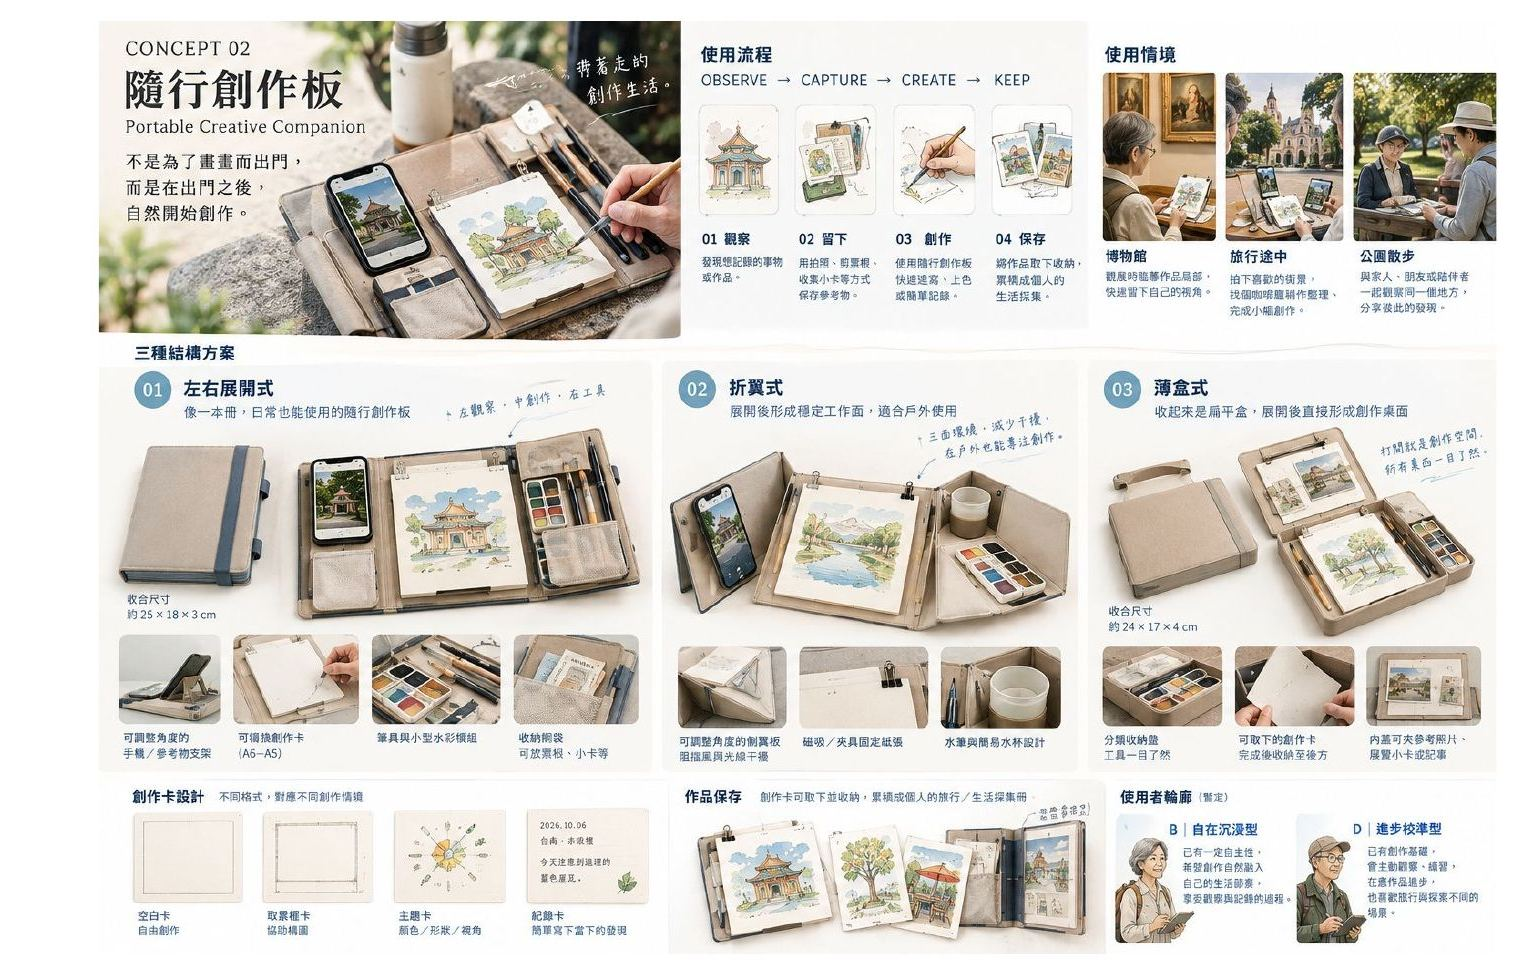
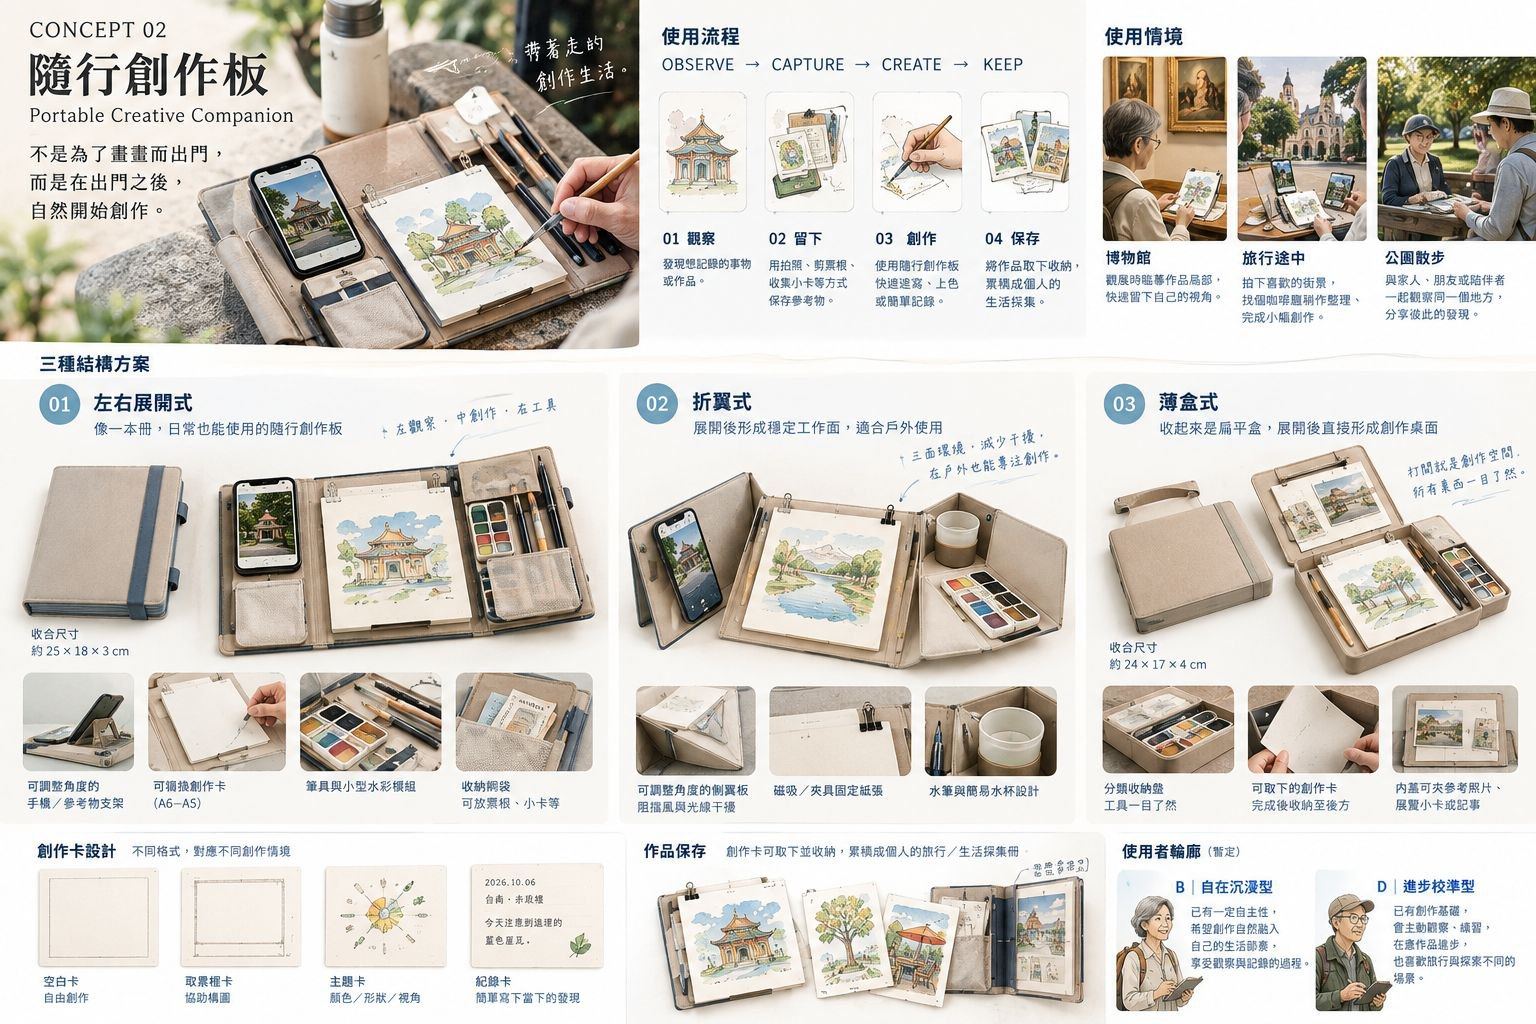
Add files via upload

diff --git a/index.html b/index.html
@@ -18,7 +18,7 @@
 *{box-sizing:border-box}
 html{scroll-behavior:smooth}
 body{margin:0;background:var(--paper);color:var(--ink);font-family:var(--sans);font-size:17px;line-height:1.8;-webkit-font-smoothing:antialiased}
-img{max-width:100%;display:block}
+img{max-width:100%;height:auto;display:block}
 a{color:var(--hydrangea);text-underline-offset:3px}
 a:focus-visible,button:focus-visible{outline:3px solid var(--hydrangea);outline-offset:3px;border-radius:2px}
 .wrap{max-width:1080px;margin:0 auto;padding:0 24px}
@@ -117,6 +117,7 @@ nav a:hover{color:var(--ink)}
 .concept .for{font-size:15px;color:var(--leaf);font-weight:700}
 .concept .tagline{font-family:var(--serif);font-size:22px;margin:8px 0 0}
 .figure{background:var(--sheet);border:1px solid var(--line);padding:12px;margin:0 0 20px}
+.figure a{display:block;cursor:zoom-in}
 .figure figcaption{font-size:14px;color:var(--soft);padding-top:10px}
 .two{display:grid;grid-template-columns:1fr 1fr;gap:32px}
 .two h3{font-size:18px;margin-bottom:8px}
@@ -352,12 +353,12 @@ footer{padding:56px 0 calc(56px + env(safe-area-inset-bottom,0px));border-top:1p
       </header>
       <p>課程提供了固定時段的藝術活動，但創作不一定只能發生在上課時。生活創作日曆借用撕日曆這個本來就存在的日常習慣，每天給一個小小的題目，讓藝術自然融入退休生活。</p>
       <figure class="figure">
-        <img src="calendar-anatomy.jpg" alt="日曆單頁示意：5 月 14 日初夏，今天的題目是畫下一種讓你想到初夏的植物，畫面中有繡球花水彩，並標示日期節氣、今日題目、生活文化資訊、最低限度提示、有限創作區與 LINE 提示 QR code 六個區塊" loading="lazy" width="945" height="384">
-        <figcaption>一張日曆，完整一天：日期與節氣、今日題目、生活資訊、最低限度提示、有限的創作區，需要時才掃 QR code 進入 LINE。</figcaption>
+        <a href="calendar-anatomy.jpg" target="_blank" rel="noopener" title="開啟大圖"><img src="calendar-anatomy.jpg" alt="生活創作日曆產品圖板：從日曆本撕下當天頁面、在日常中完成小畫，再收進生活收藏冊；下方為單頁解析，5 月 14 日初夏的題目是畫下一種讓你想到初夏的植物，標示日期節氣、今日題目、生活文化資訊、最低限度提示、有限創作區與 LINE 提示 QR code" loading="lazy" width="1672" height="941"></a>
+        <figcaption>日曆越來越薄，生活紀錄越來越厚：撕下今天、完成小畫、收進收藏冊。下方是單頁解析——日期與節氣、今日題目、生活資訊、最低限度提示、有限的創作區，需要時才掃 QR code 進入 LINE。（點圖可開啟大圖）</figcaption>
       </figure>
       <figure class="figure">
-        <img src="calendar-themes.jpg" alt="五種主題的日曆頁範例：季節植物、常用杯子、常見的人、文化藝術、出去看看，下方是外出時拍照與速寫的情境" loading="lazy" width="1014" height="711">
-        <figcaption>題目在季節、自己、人、文化與外出之間輪替；外出不等於寫生，拍照回家再畫也算。</figcaption>
+        <a href="calendar-themes.jpg" target="_blank" rel="noopener" title="開啟大圖"><img src="calendar-themes.jpg" alt="內容與支援系統圖板：五種主題的日曆頁範例（季節植物、常用杯子、常見的人、文化藝術、出去看看）、LINE 選用支援的手機畫面、外出用的迷你創作盒，以及從提示到分享的使用流程" loading="lazy" width="1672" height="941"></a>
+        <figcaption>每天不一樣，需要時才提供支援：題目在季節、自己、人、文化與外出之間輪替；LINE 只在需要時出現；外出時帶上迷你創作盒。（點圖可開啟大圖）</figcaption>
       </figure>
       <div class="two">
         <div>
@@ -389,8 +390,8 @@ footer{padding:56px 0 calc(56px + env(safe-area-inset-bottom,0px));border-top:1p
       </header>
       <p>在博物館、旅途中或公園散步時，觀察、留下參考物、快速創作、再把作品收進自己的生活採集冊。我們正在比較三種結構：像書一樣左右展開、展開後形成穩定工作面的折翼式，以及打開就是創作桌面的薄盒式。</p>
       <figure class="figure">
-        <img src="concept2-board.jpg" alt="隨行創作板設計圖板：使用流程為觀察、留下、創作、保存；使用情境包含博物館、旅行途中、公園散步；三種結構方案為左右展開式、折翼式與薄盒式；另有空白卡、取景框卡、主題卡、紀錄卡四種創作卡" loading="lazy" width="1526" height="975">
-        <figcaption>使用流程、情境、三種結構方案與四種創作卡設計。</figcaption>
+        <a href="concept2-board.jpg" target="_blank" rel="noopener" title="開啟大圖"><img src="concept2-board.jpg" alt="隨行創作板設計圖板：使用流程為觀察、留下、創作、保存；使用情境包含博物館、旅行途中、公園散步；三種結構方案為左右展開式、折翼式與薄盒式；另有空白卡、取景框卡、主題卡、紀錄卡四種創作卡" loading="lazy" width="1536" height="1024"></a>
+        <figcaption>使用流程、情境、三種結構方案與四種創作卡設計。（點圖可開啟大圖）</figcaption>
       </figure>
     </article>
   </div>
